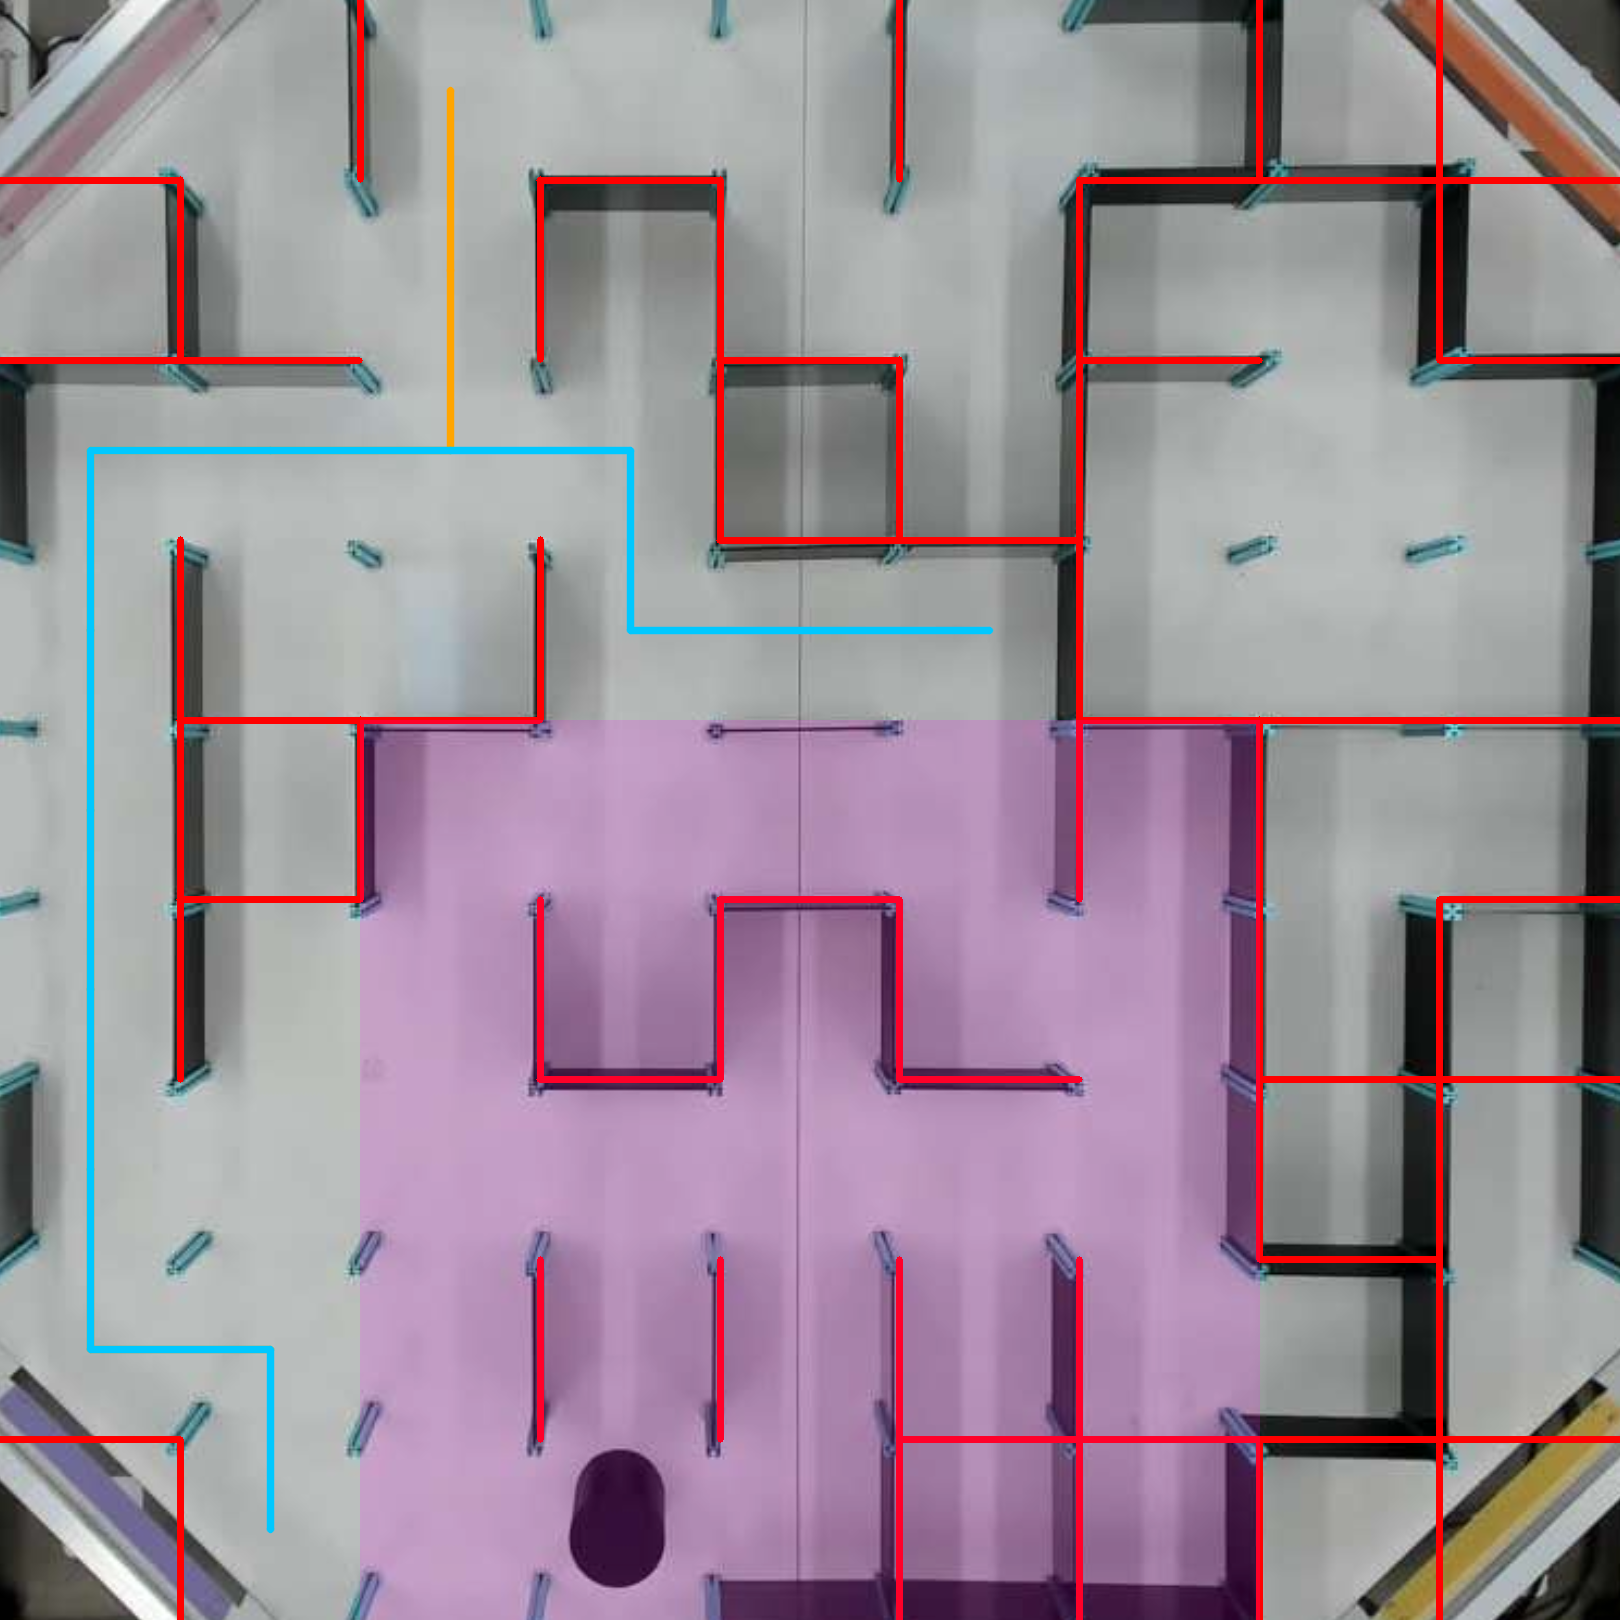
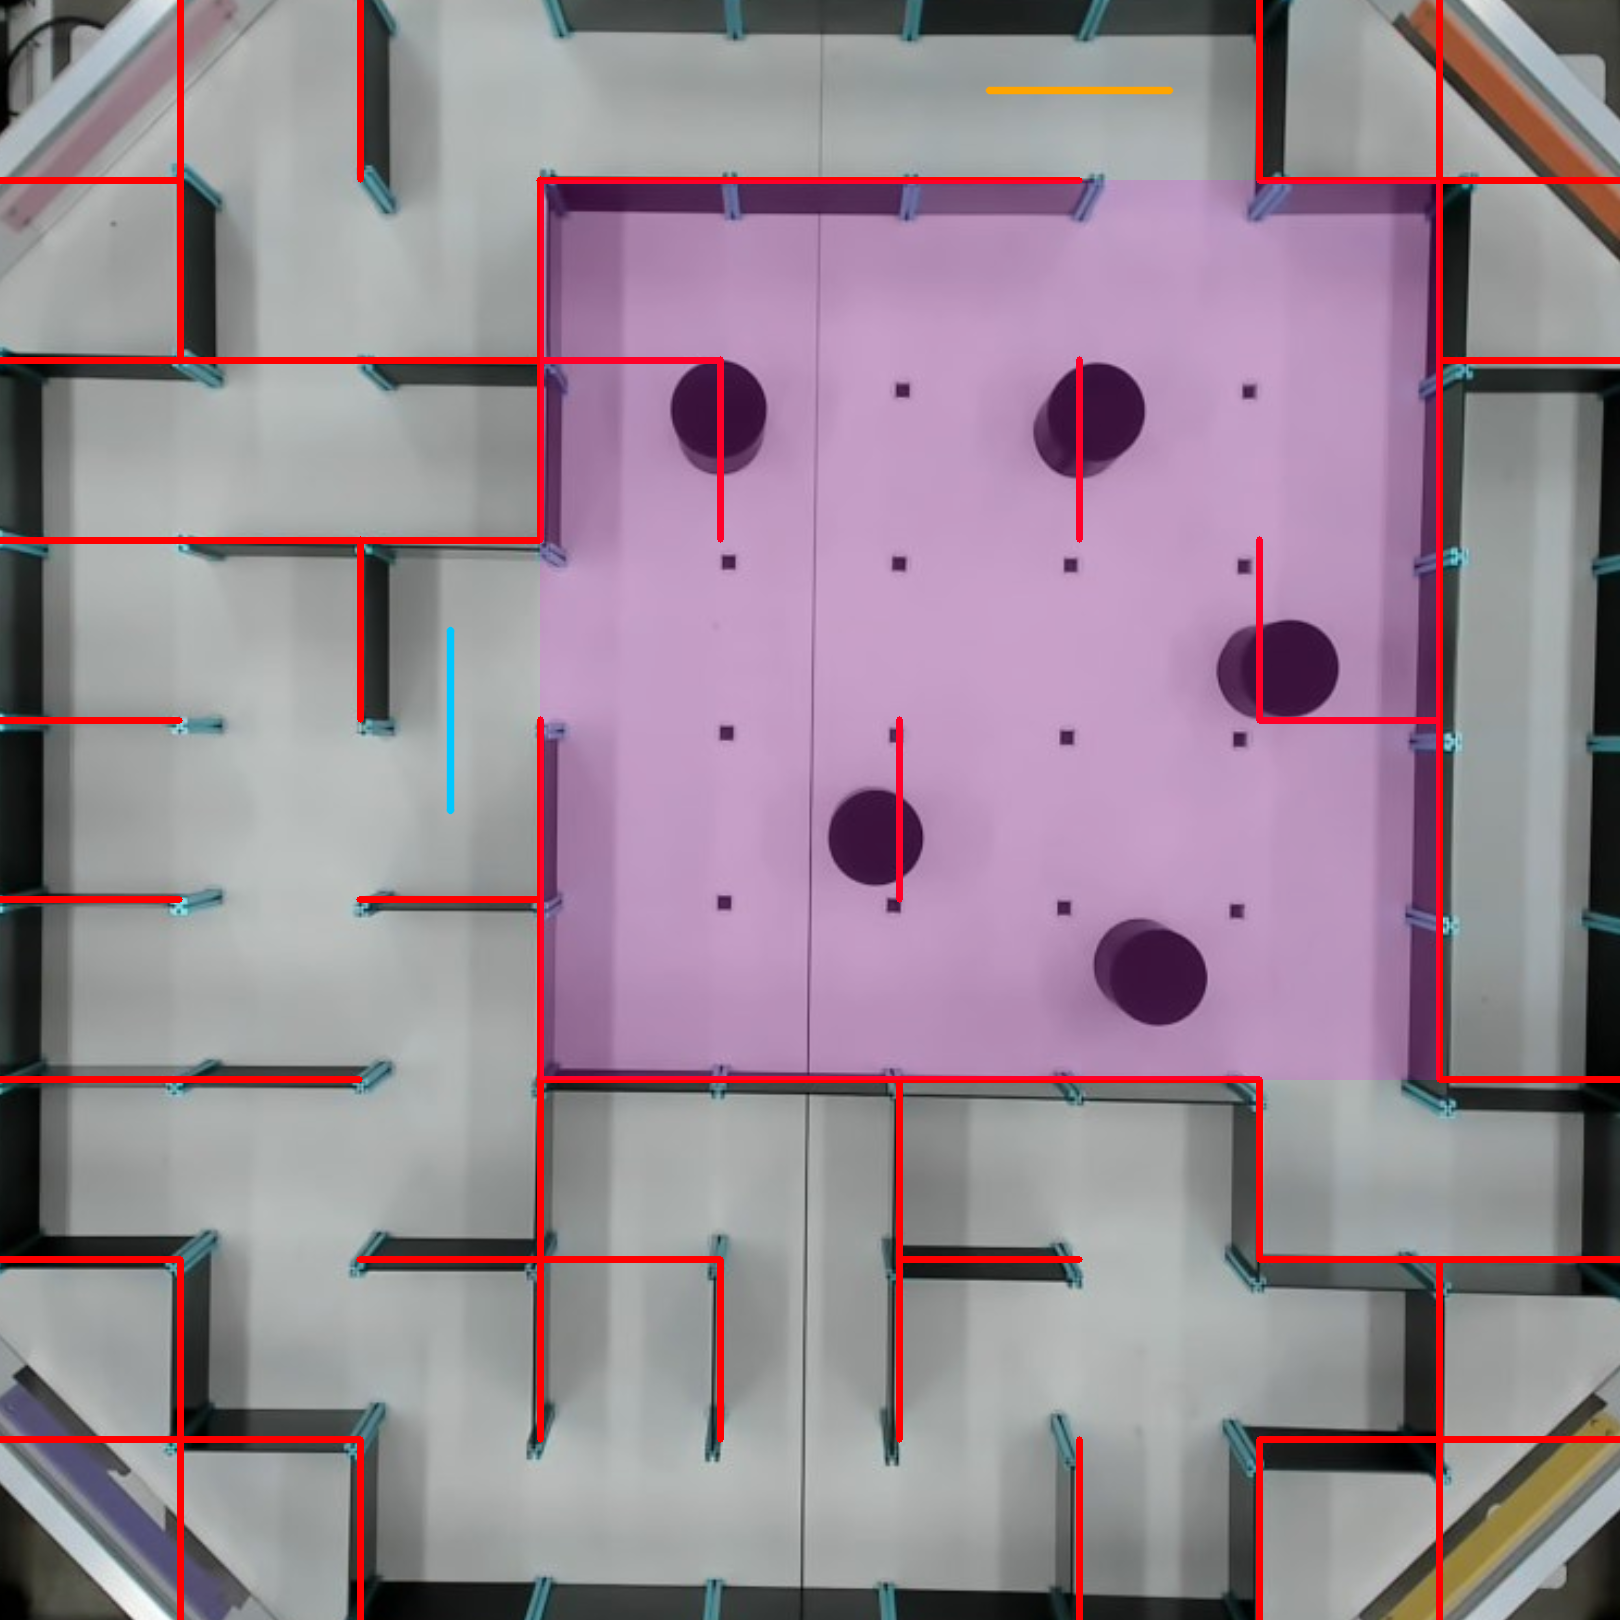
Update week12 part2

diff --git a/week12_part2/planner_core.py b/week12_part2/planner_core.py
@@ -506,7 +506,10 @@ def boundary_point_for_cell(
 
 
 def build_extended_clearance_map(
-    original: np.ndarray, homography: np.ndarray, config: dict
+    original: np.ndarray,
+    homography: np.ndarray,
+    config: dict,
+    obstacles: Sequence[Obstacle] = (),
 ) -> tuple[np.ndarray, float, float]:
     """Measure wall clearance over the 5 x 5 area plus one outside cell."""
     output_pixels = int(config["rectified_pixels"])
@@ -528,8 +531,24 @@ def build_extended_clearance_map(
         borderValue=(255, 255, 255),
     )
     dark_mask = make_dark_mask(extended, config)
+    for obstacle in obstacles:
+        center = (
+            int(round(obstacle.x_mm * pixels_per_mm + padding_px)),
+            int(round(obstacle.y_mm * pixels_per_mm + padding_px)),
+        )
+        radius = int(round((obstacle.radius_mm + 8.0) * pixels_per_mm))
+        cv2.circle(dark_mask, center, radius, 0, -1)
+
+    component_count, labels, stats, _ = cv2.connectedComponentsWithStats(dark_mask)
+    wall_mask = np.zeros_like(dark_mask)
+    minimum_span_px = 0.4 * cell_size * pixels_per_mm
+    for label in range(1, component_count):
+        width = int(stats[label, cv2.CC_STAT_WIDTH])
+        height = int(stats[label, cv2.CC_STAT_HEIGHT])
+        if max(width, height) >= minimum_span_px:
+            wall_mask[labels == label] = 255
     free_distance_px = cv2.distanceTransform(
-        (dark_mask == 0).astype(np.uint8), cv2.DIST_L2, 5
+        (wall_mask == 0).astype(np.uint8), cv2.DIST_L2, 5
     )
     max_distance_px = math.hypot(*dark_mask.shape[:2])
     clearance_mm = np.minimum(free_distance_px, max_distance_px) / pixels_per_mm
@@ -708,7 +727,7 @@ def plan_course(
         entry_mm,
         exit_mm,
         config,
-        dark_mask,
+        None,
         validate_approaches=False,
         robot_radius_mm=robot_travel_radius(config),
     )
@@ -717,7 +736,7 @@ def plan_course(
         entry_mm,
         exit_mm,
         config,
-        dark_mask,
+        None,
         validate_approaches=False,
         robot_radius_mm=robot_footprint_radius(config),
     )
@@ -727,7 +746,7 @@ def plan_course(
     start_outside_center = grid_cell_center(start_outside, config)
     goal_outside_center = grid_cell_center(goal_outside, config)
     extended_clearance, padding_px, pixels_per_mm = build_extended_clearance_map(
-        image, homography, config
+        image, homography, config, obstacles
     )
     travel_clearance = robot_travel_radius(config) + float(config["safety_margin_mm"])
     if not extended_line_is_free(

diff --git a/week12_part2/plan_route.py b/week12_part2/plan_route.py
@@ -128,6 +128,13 @@ def main() -> int:
     config = load_config(args.config)
     corners, entrance, exit_point = collect_course_selection(image)
     args.output.mkdir(parents=True, exist_ok=True)
+    save_course_selection(
+        args.output / "last_course_selection.json",
+        image_path,
+        corners,
+        entrance,
+        exit_point,
+    )
     arduino_header = SCRIPT_DIR / "arduino" / "week12_part2" / "GeneratedRoute.h"
     try:
         result = plan_course(image, corners, entrance, exit_point, config)

diff --git a/week12_part2/arduino/week12_part2/GeneratedRoute.h b/week12_part2/arduino/week12_part2/GeneratedRoute.h
@@ -1,5 +1,8 @@
+/*
+ * Generated by the Week 12 Part 2 route planner.
+ */
 #pragma once
 
-const char PRE_COMMANDS[] = "llffrfflffffflf";
-const char COURSE_COMMANDS[] = "flfffrffflf";
-const char POST_COMMANDS[] = "lffrflffflffffflfrf";
+const char PRE_COMMANDS[] = "fr";
+const char COURSE_COMMANDS[] = "frfflffrff";
+const char POST_COMMANDS[] = "lf";
